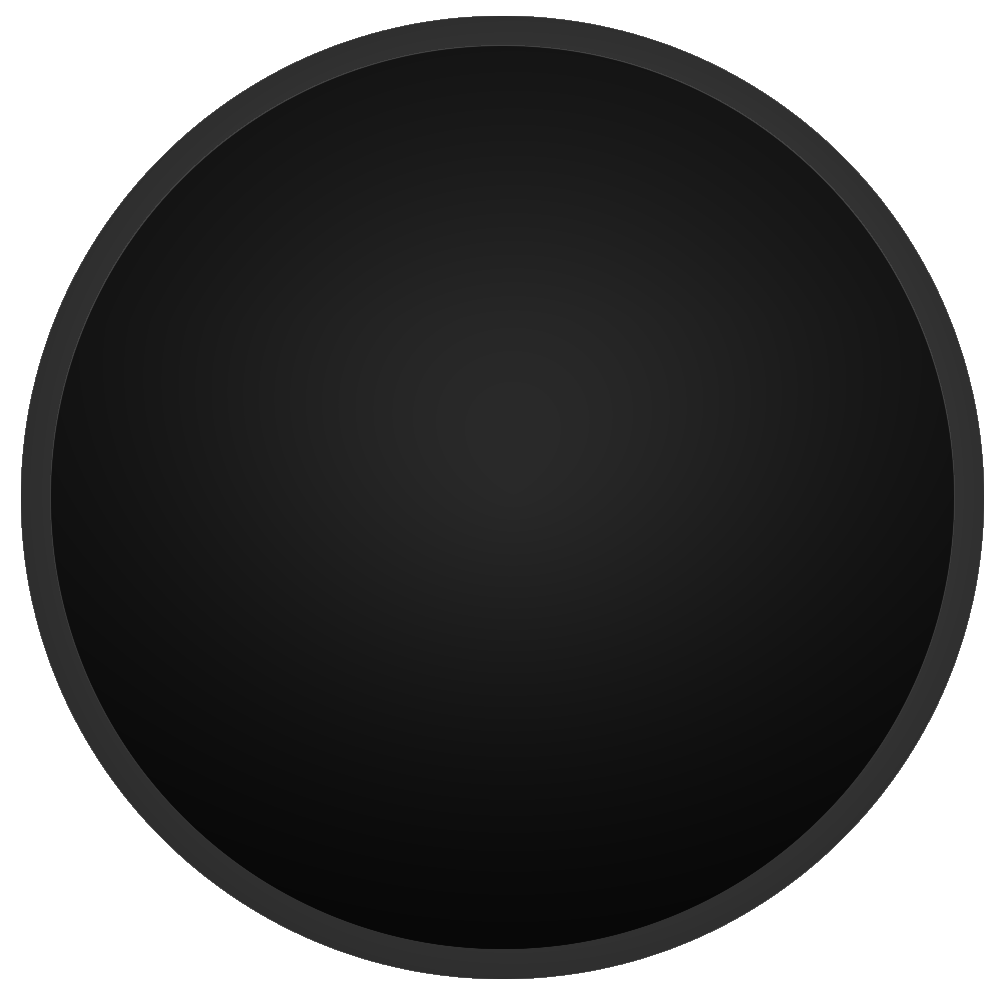
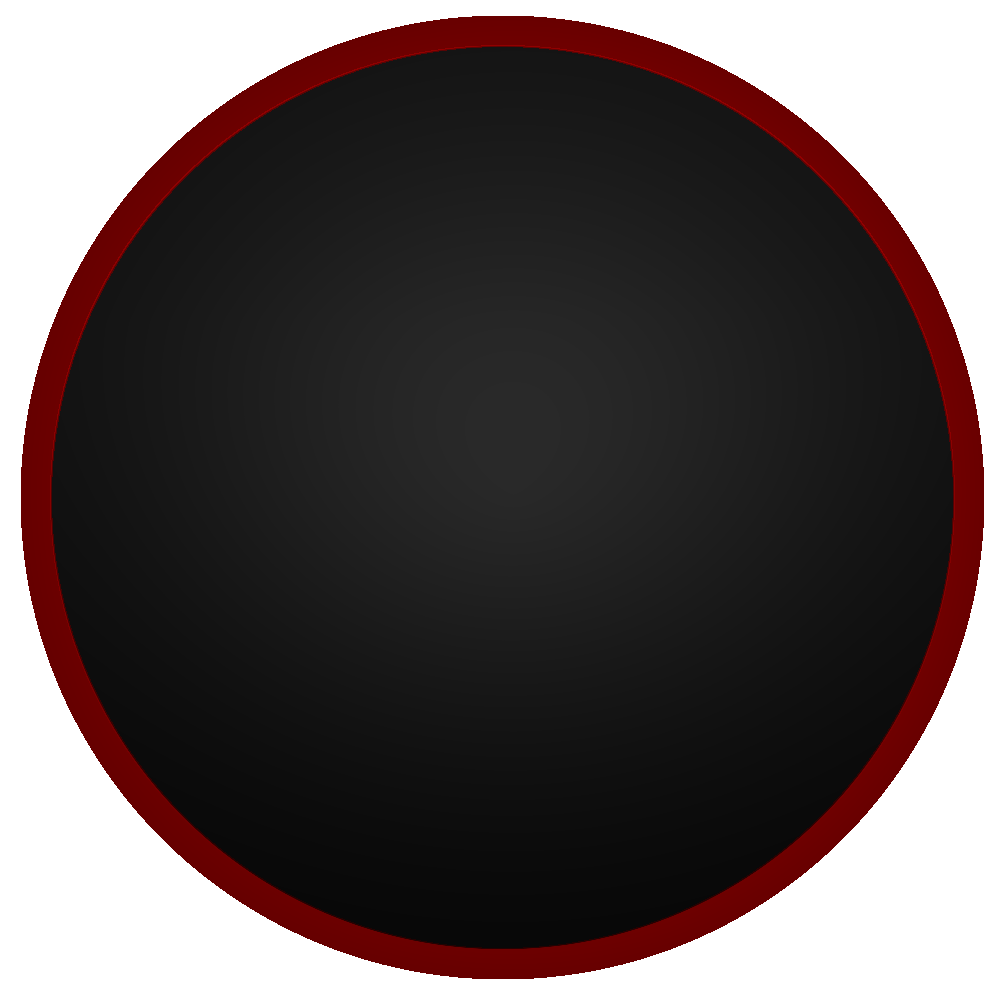
made red darker

Changed region(s): [[0.0, 0.0, 0.992, 0.992]]

diff --git a/Button-iOS/Button/ButtonViewController.m b/Button-iOS/Button/ButtonViewController.m
@@ -58,7 +58,7 @@
     [secondView addSubview: bannerView];
     
     UIView *mapBorder = [[UIView alloc] initWithFrame:CGRectMake(0, bannerView.frame.size.height, width, width)];
-    mapBorder.backgroundColor = [UIColor redColor];
+    mapBorder.backgroundColor = [UIColor colorWithRed:106.0/255.0 green:0 blue:0 alpha:1];
     [secondView addSubview:mapBorder];
     
     mapView = [(MKMapView*) [MKMapView alloc]initWithFrame:CGRectMake(0.01*width, 0.01*width, 0.98 * width, 0.98*width)];
@@ -150,7 +150,7 @@
     for (NSDictionary *d in data){
         float lng = [[d objectForKey:@"lng"] floatValue];
         float lat = [[d objectForKey:@"lat"] floatValue];
-        long age = [[d objectForKey:@"age"] longValue];
+        long long age = [[d objectForKey:@"age"] longLongValue];
         MapPin *pin = [[MapPin alloc]
                        initWithCoordinates:CLLocationCoordinate2DMake(lat,lng)
                        andAge:age];
@@ -189,8 +189,9 @@
         annView.image =  [UIImage imageWithCGImage:[original CGImage]
                                              scale:(original.scale * 6.0)
                                        orientation:(original.imageOrientation)];
-        annView.alpha = .5;
-        //annView.pinColor = MKPinAnnotationColorGreen;
+        NSTimeInterval currentTime = [[NSDate date] timeIntervalSince1970];
+        NSTimeInterval difference = currentTime - ((NSTimeInterval)annotation.bonerTime / 1000);
+        annView.alpha = MAX(0.0, 1 - (difference / 86400));
     }
     return annView;
 }

diff --git a/Button-iOS/Button/MapPin.h b/Button-iOS/Button/MapPin.h
@@ -14,9 +14,9 @@
 @property (nonatomic, readonly) CLLocationCoordinate2D coordinate;
 @property (nonatomic, readonly, copy) NSString *title;
 @property (nonatomic, readonly, copy) NSString *subtitle;
-@property long bonerTime;
+@property long long bonerTime;
 
-- (id)initWithCoordinates:(CLLocationCoordinate2D)location andAge:(long)age;
-- (long)getBonerTime;
+- (id)initWithCoordinates:(CLLocationCoordinate2D)location andAge:(long long)age;
+- (long long)getBonerTime;
 
 @end

diff --git a/Button-iOS/Button/MapPin.m b/Button-iOS/Button/MapPin.m
@@ -15,7 +15,7 @@
 @synthesize subtitle;
 @synthesize bonerTime;
 
-- (id)initWithCoordinates:(CLLocationCoordinate2D)location andAge:(long)age{
+- (id)initWithCoordinates:(CLLocationCoordinate2D)location andAge:(long long)age{
     self = [super init];
     if (self != nil) {
         coordinate = location;
@@ -26,7 +26,7 @@
     return self;
 }
 
-- (long)getBonerTime{
+- (long long)getBonerTime{
     return bonerTime;
 }
 
